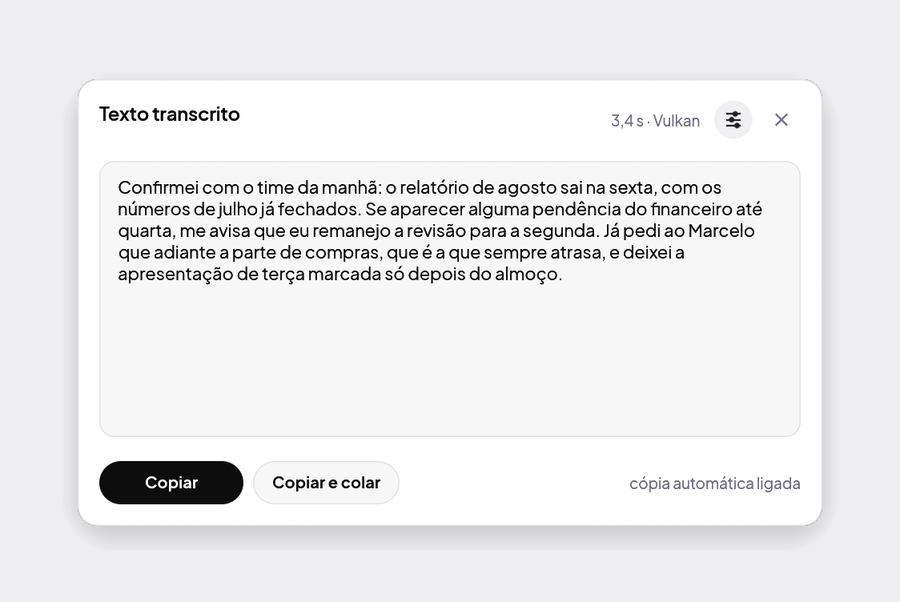
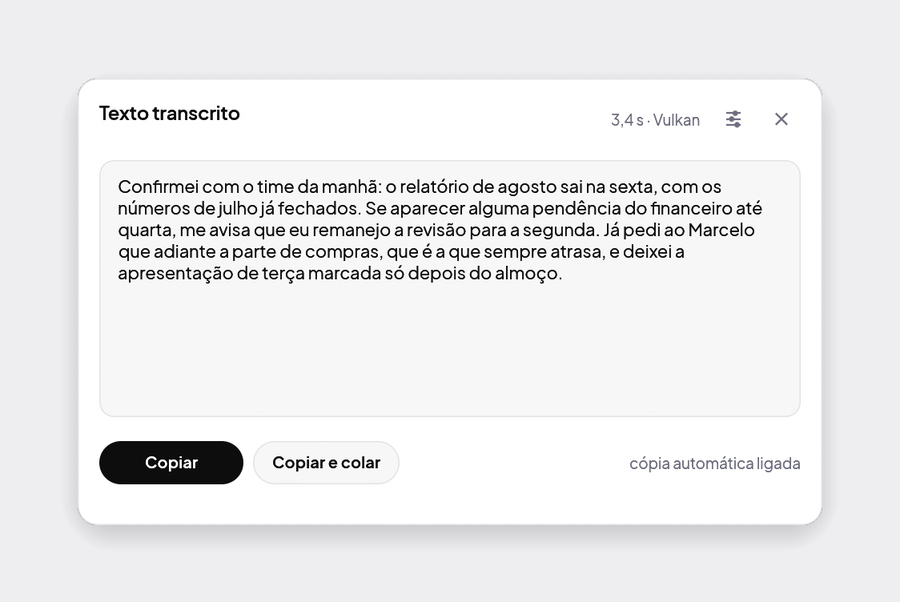
Mais ar embaixo das fileiras de botões
A margem da janela é a mesma dos quatro lados, mas embaixo ela não bastava:
o canto arredondado come parte do espaço, e um botão que é a última coisa da
tela pede mais ar do que um rótulo encostado na lateral. As duas telas com
botões no pé — configurações e resultado — passam a reservar um respiro a
mais, que somado à margem dá cerca do dobro do que sobra dos lados.

diff --git a/src/ui.rs b/src/ui.rs
@@ -20,6 +20,14 @@ use egui::{
 };
 use std::time::Duration;
 
+/// Folga a mais embaixo da fileira de botões que fecha uma tela.
+///
+/// A margem da janela é a mesma dos quatro lados, mas embaixo ela não basta: o
+/// canto arredondado come parte do espaço, e um botão que é a última coisa da
+/// tela pede mais ar do que um rótulo encostado na lateral. Somada à margem, dá
+/// cerca do dobro do que sobra dos lados.
+const RESPIRO: f32 = 16.0;
+
 const IDIOMAS: &[(&str, &str)] = &[
     ("pt", "Português"),
     ("en", "Inglês"),
@@ -583,7 +591,9 @@ impl App {
 
         ui.add_space(8.0);
 
-        let altura_texto = ui.available_height() - 58.0;
+        // O que sobra depois do cartão: o espaço, a fileira de botões e o mesmo
+        // respiro embaixo deles que as configurações têm.
+        let altura_texto = ui.available_height() - (10.0 + 36.0 + 12.0 + RESPIRO);
         widgets::cartao(ui, |ui| {
             ui.set_min_height(altura_texto - 24.0);
             if state.config.editable_result {
@@ -777,9 +787,9 @@ impl App {
 
         // O rodapé é fixo e a lista fica com o resto. A conta é a altura de tudo
         // que vem depois da lista: o espaço antes da linha, a linha, o espaço
-        // depois dela, os botões — e mais um espaçamento, que o egui insere
-        // sozinho ao fechar a área de rolagem.
-        let rodape = 10.0 + 1.0 + 14.0 + 36.0 + ui.spacing().item_spacing.y;
+        // depois dela, os botões — mais um espaçamento, que o egui insere
+        // sozinho ao fechar a área de rolagem, e o respiro embaixo dos botões.
+        let rodape = 10.0 + 1.0 + 14.0 + 36.0 + ui.spacing().item_spacing.y + RESPIRO;
         egui::ScrollArea::vertical()
             .max_height(ui.available_height() - rodape)
             .show(ui, |ui| {
